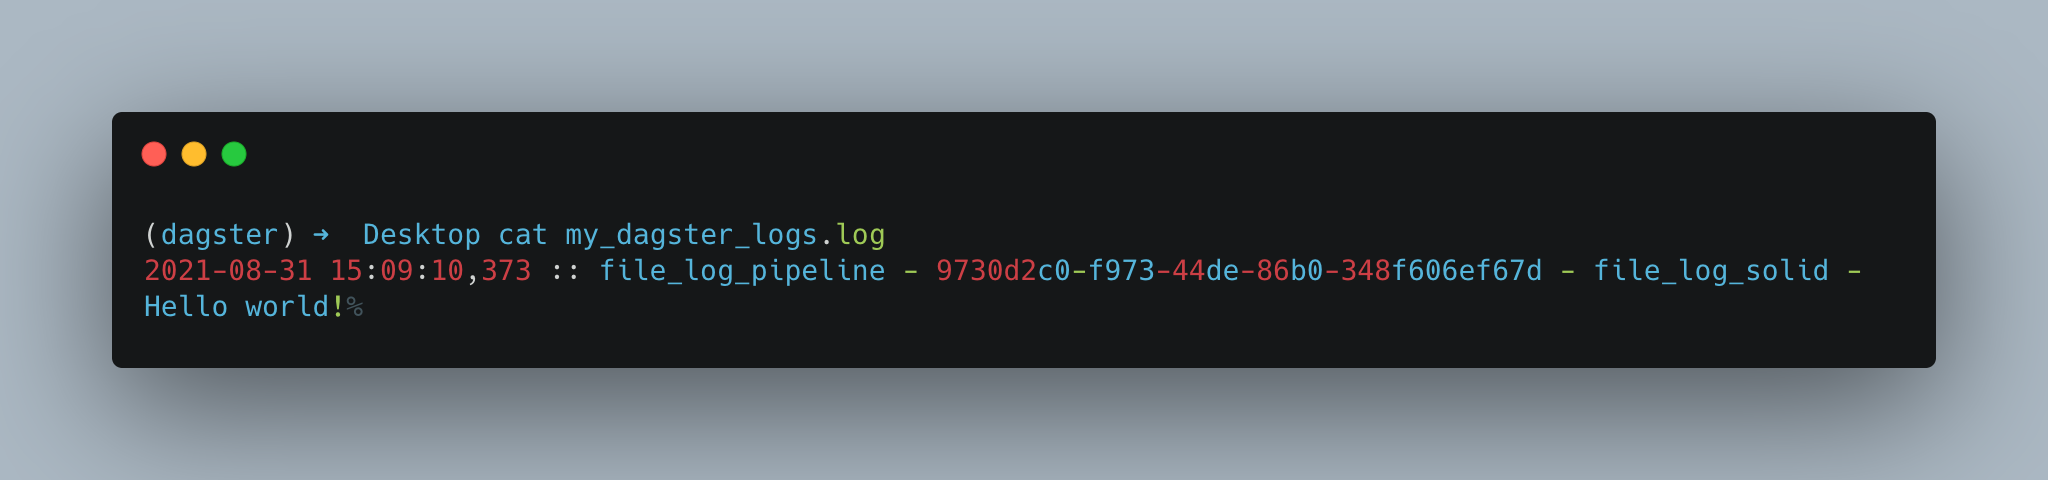
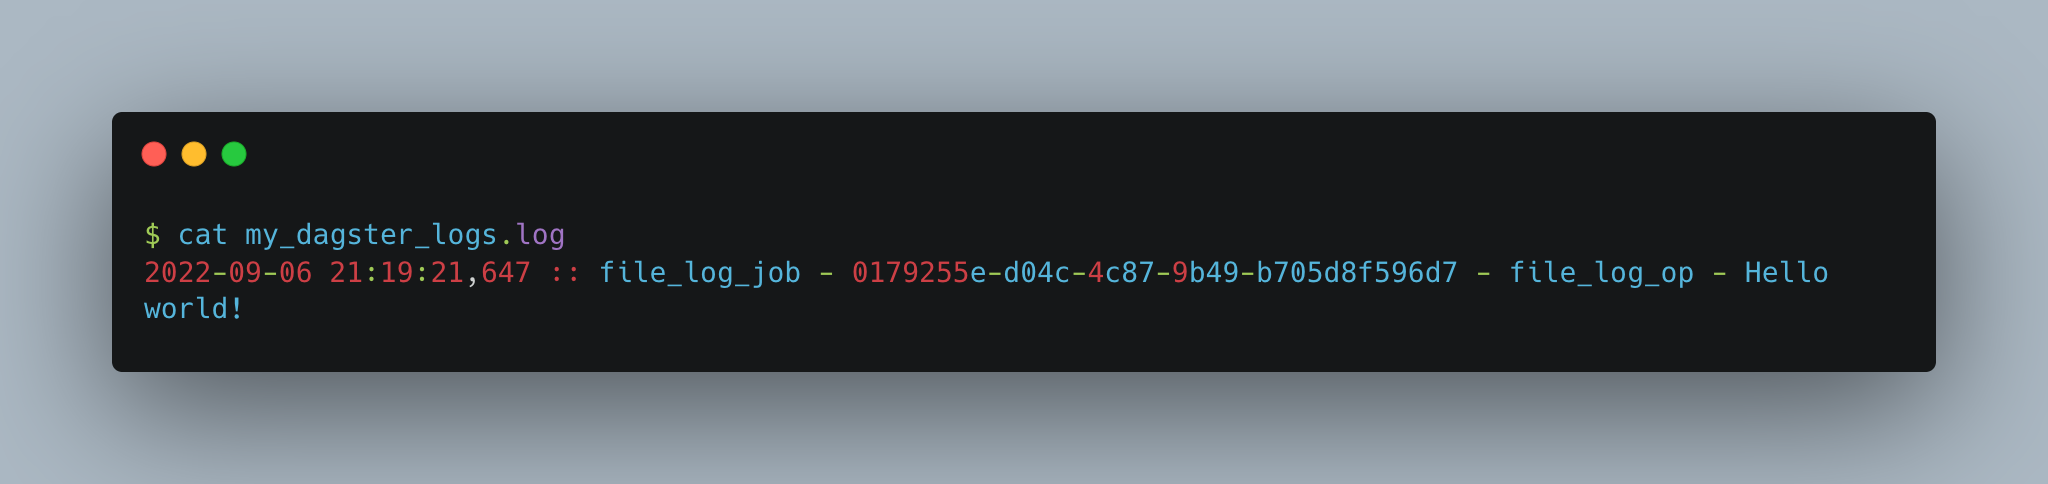
docs: no pipelines/solids in python logging examples

Changed region(s): [[0.0625, 0.4688, 0.875, 0.5938], [0.0625, 0.625, 0.1875, 0.6562], [0.0625, 0.2812, 0.125, 0.3125]]

diff --git a/examples/docs_snippets/docs_snippets_tests/concepts_tests/logging_tests/test_instance_config.py b/examples/docs_snippets/docs_snippets_tests/concepts_tests/logging_tests/test_instance_config.py
@@ -5,9 +5,7 @@ from dagster._utils import file_relative_path
 
 def test_valid_managed_loggers_instance_yaml():
     ref = InstanceRef.from_dir(
-        base_dir=file_relative_path(
-            __file__, "../../../docs_snippets/concepts/logging"
-        ),
+        base_dir=file_relative_path(__file__, "../../../docs_snippets/concepts/logging"),
         config_filename="python_logging_managed_loggers_config.yaml",
     )
     instance = DagsterInstance.from_ref(ref)
@@ -16,9 +14,7 @@ def test_valid_managed_loggers_instance_yaml():
 
 def test_valid_log_level_instance_yaml():
     ref = InstanceRef.from_dir(
-        base_dir=file_relative_path(
-            __file__, "../../../docs_snippets/concepts/logging"
-        ),
+        base_dir=file_relative_path(__file__, "../../../docs_snippets/concepts/logging"),
         config_filename="python_logging_python_log_level_config.yaml",
     )
     instance = DagsterInstance.from_ref(ref)
@@ -27,10 +23,17 @@ def test_valid_log_level_instance_yaml():
 
 def test_valid_handler_instance_yaml():
     ref = InstanceRef.from_dir(
-        base_dir=file_relative_path(
-            __file__, "../../../docs_snippets/concepts/logging"
-        ),
+        base_dir=file_relative_path(__file__, "../../../docs_snippets/concepts/logging"),
         config_filename="python_logging_handler_config.yaml",
+    )
+    instance = DagsterInstance.from_ref(ref)
+    assert len(instance.get_handlers()) == 2
+
+
+def test_valid_file_instance_yaml():
+    ref = InstanceRef.from_dir(
+        base_dir=file_relative_path(__file__, "../../../docs_snippets/concepts/logging"),
+        config_filename="python_logging_file_output_config.yaml",
     )
     instance = DagsterInstance.from_ref(ref)
     assert len(instance.get_handlers()) == 2

diff --git a/examples/docs_snippets/docs_snippets/concepts/logging/file_output_pipeline.py b/examples/docs_snippets/docs_snippets/concepts/logging/file_output_pipeline.py
@@ -1,17 +1,17 @@
 # isort: skip_file
-from dagster._legacy import pipeline, solid
+from dagster import job, op
 
 # start_custom_file_output_log
 
 
-@solid
-def file_log_solid(context):
+@op
+def file_log_op(context):
     context.log.info("Hello world!")
 
 
-@pipeline
-def file_log_pipeline():
-    file_log_solid()
+@job
+def file_log_job():
+    file_log_op()
 
 
 # end_custom_file_output_log

diff --git a/examples/docs_snippets/docs_snippets_tests/concepts_tests/logging_tests/test_file_output.py b/examples/docs_snippets/docs_snippets_tests/concepts_tests/logging_tests/test_file_output.py
@@ -1,0 +1,6 @@
+from docs_snippets.concepts.logging.file_output_pipeline import file_log_job
+
+
+def test_file_log_job():
+    result = file_log_job.execute_in_process()
+    assert result.success
